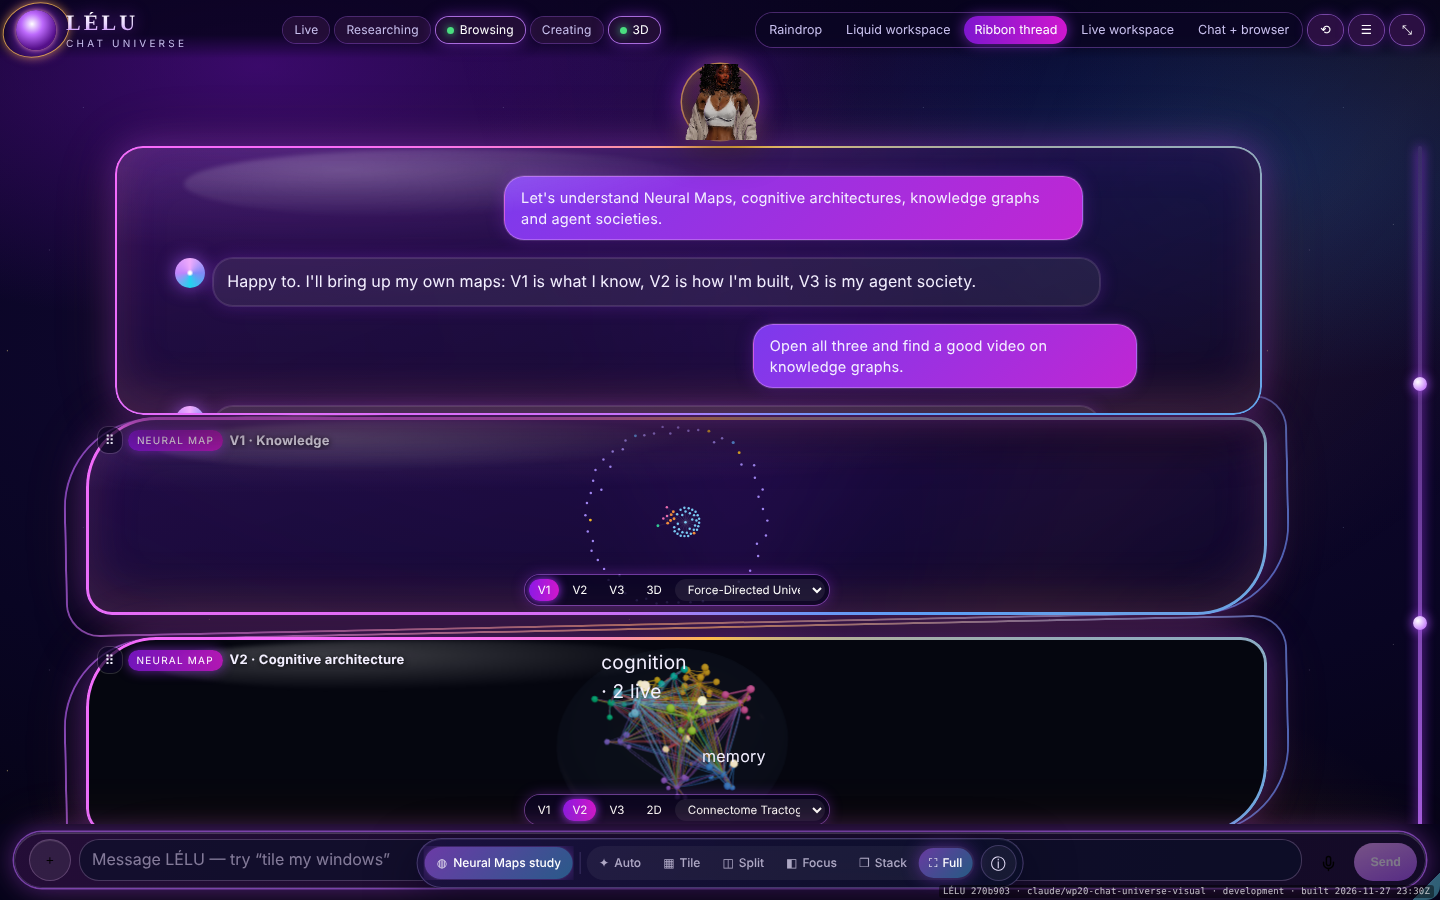
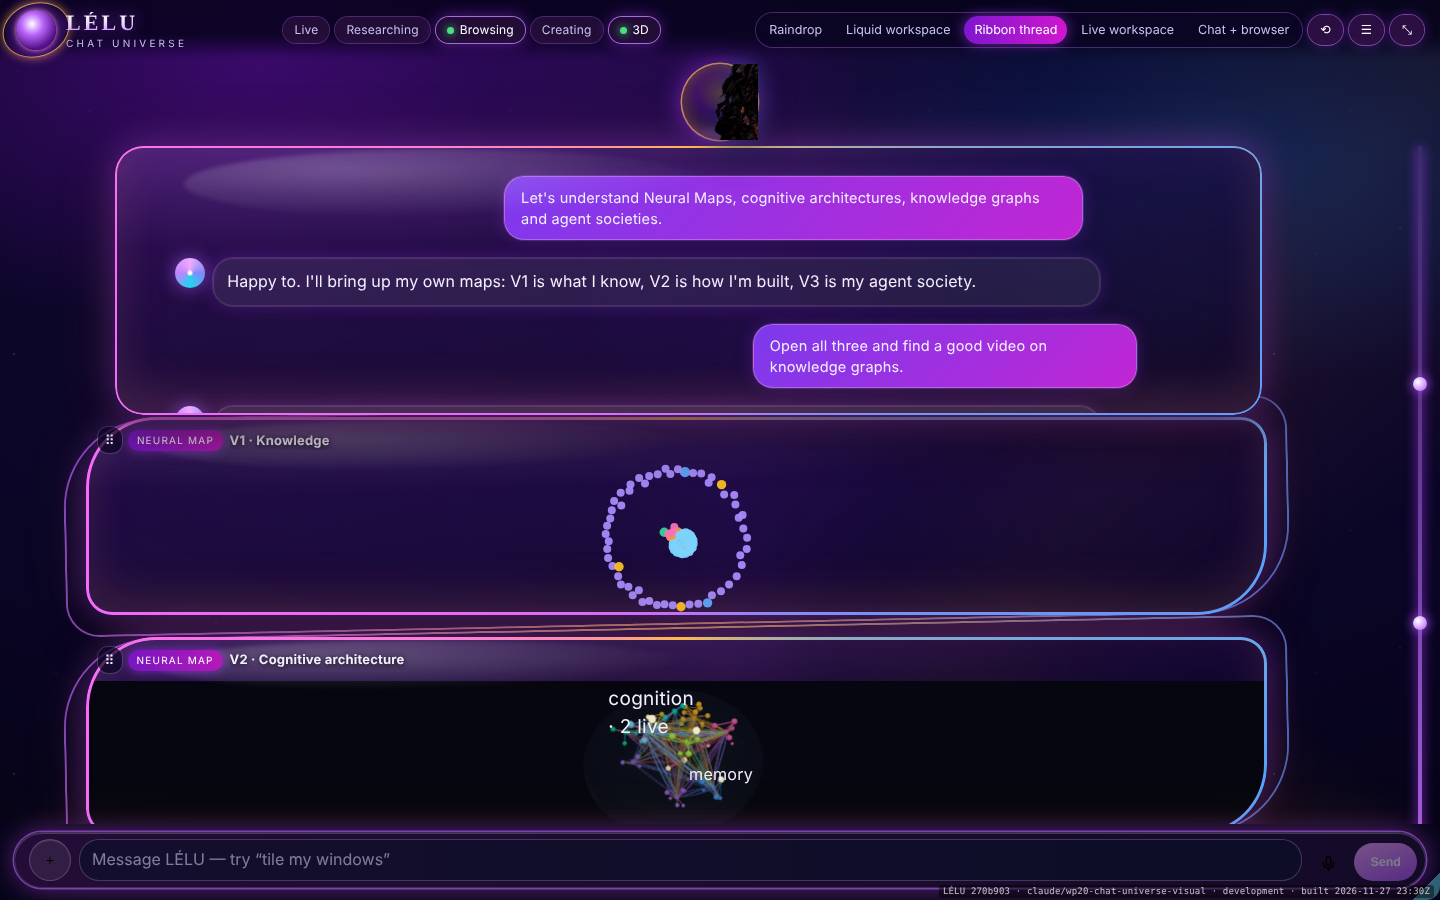
WP20: readable maps at any size, uncluttered video, composer free of the workspace bar
- 2D map labels and nodes keep their on-screen size (about 12 px)
  whatever the map's scale or the pane's size. V3's agents now read
  clearly in a side pane.
- Workspace side panes are at least 200 px tall; the centrepiece grows
  to match.
- Videos keep YouTube's own title; only the grip and actions float
  over them. Map content starts below the floating header.
- The window's workspace bar is hidden while the Thread is immersive,
  so it no longer covers the composer.

Claude-Session: https://claude.ai/code/session_017r5V6N97c4ksPFc1eZj1j6

Changed region(s): [[0.0625, 0.4978, 0.9062, 0.9956], [0.4688, 0.0622, 0.5312, 0.1867]]

diff --git a/src/app/scene/genesis/chat/thread/ThreadMap.tsx b/src/app/scene/genesis/chat/thread/ThreadMap.tsx
@@ -103,13 +103,24 @@ function Map2D({ graph, layoutId, colour, highlight, selected, onSelect }: { gra
   }, [placed]);
   const [view, setView] = useState({ x: 0, y: 0, k: 1 });
   const drag = useRef<{ x: number; y: number; vx: number; vy: number } | null>(null);
+  // Labels and nodes keep an on-screen size whatever the map's scale or the pane's size.
+  const svgRef = useRef<SVGSVGElement | null>(null);
+  const [px, setPx] = useState(400);
+  useEffect(() => {
+    if (!svgRef.current) return;
+    const ro = new ResizeObserver(([e]) => setPx(Math.max(120, Math.min(e.contentRect.width, e.contentRect.height))));
+    ro.observe(svgRef.current);
+    return () => ro.disconnect();
+  }, []);
+  const unit = fit.s / view.k / px; // viewBox units per screen pixel
   const focus = selected ?? null;
   const near = new Set(focus ? graph.edges.flatMap((e) => (e.from === focus ? [e.to] : e.to === focus ? [e.from] : [])) : []);
   return (
     <svg
+      ref={svgRef}
       className="tm-svg"
       viewBox={`${fit.x - view.x} ${fit.y - view.y} ${fit.s / view.k} ${fit.s / view.k}`}
-      style={{ ["--ls" as string]: `${Math.max(12, fit.s / 34)}px` }}
+      style={{ ["--ls" as string]: `${unit * 12}px` }}
       onWheel={(e) => setView((v) => ({ ...v, k: Math.min(6, Math.max(0.5, v.k * (e.deltaY < 0 ? 1.15 : 0.87))) }))}
       onPointerDown={(e) => {
         if ((e.target as Element).closest("[data-tm-node]")) return;
@@ -128,14 +139,14 @@ function Map2D({ graph, layoutId, colour, highlight, selected, onSelect }: { gra
         const b = placed.positions[e.to];
         if (!a || !b) return null;
         const lit = focus && (e.from === focus || e.to === focus);
-        return <line key={e.id} x1={a.x} y1={a.y} x2={b.x} y2={b.y} stroke={lit ? "#fde68a" : "#94a3b8"} strokeOpacity={lit ? 0.9 : 0.3} strokeWidth={fit.s / (lit ? 300 : 600)} />;
+        return <line key={e.id} x1={a.x} y1={a.y} x2={b.x} y2={b.y} stroke={lit ? "#fde68a" : "#94a3b8"} strokeOpacity={lit ? 0.9 : 0.3} strokeWidth={unit * (lit ? 2 : 1)} />;
       })}
       {graph.nodes.map((n) => {
         const p = placed.positions[n.id];
         if (!p) return null;
         const hl = highlight.has(n.id);
         const on = n.id === focus;
-        const r = (fit.s / 160) * (1 + Math.min(1.5, Math.log2(1 + (n.weight ?? 0)) / 6));
+        const r = unit * (4 + Math.min(6, Math.log2(1 + (n.weight ?? 0)) * 0.7));
         return (
           <g key={n.id} data-tm-node={n.id} data-highlighted={hl ? "true" : "false"} onClick={() => onSelect(on ? null : n.id)} style={{ cursor: "pointer" }}>
             {hl ? <circle cx={p.x} cy={p.y} r={r * 1.9} fill="none" stroke="#fbbf24" strokeWidth={r / 3} className="tm-pulse" /> : null}

diff --git a/src/app/scene/genesis/chat/thread/thread.css b/src/app/scene/genesis/chat/thread/thread.css
@@ -298,3 +298,22 @@
   .ts::before, .lq::before, .rd-sky i, .rd-ripple, .rd-drop .rd-shape, .ts-trails path { animation: none !important; }
   .rd-drop { transition: none; }
 }
+
+/* ---------------------------------------------------- WP20 refinements */
+/* The workspace bar belongs to the window layout; the immersive Thread has its own controls. */
+html:has(.lst-root[data-stage="thread"][data-immersive="true"]) [data-lelu-workspace-bar] { display: none !important; }
+/* A video carries its own title (YouTube's player): keep only the grip and actions over it. */
+.to[data-kind="youtube"] .to-kind, .to[data-kind="youtube"] .to-title { display: none; }
+.to[data-kind="youtube"] .to-head { justify-content: space-between; top: auto; bottom: 40px; }
+.to[data-kind="youtube"] .to-actions { margin-left: auto; }
+/* Map content starts below the floating header, so labels never sit under it. */
+.to[data-kind="neural-map"] .tm-body { margin-top: 44px; }
+.to[data-kind="neural-map"] .tm-bar { bottom: 8px; }
+/* Narrow panes: the title gives way first. */
+@container (max-width: 300px) { .to-title { display: none; } }
+.to { container-type: size; }
+
+/* Short panes: the map's controls appear on hover / focus only. */
+@container (max-height: 260px) { .tm-bar { opacity: 0; transition: opacity .2s; } }
+.to:hover .tm-bar, .to:focus-within .tm-bar { opacity: 1; }
+.tm-label { stroke-width: calc(var(--ls) * .35); }

diff --git a/src/core/thread/ThreadVariants.ts b/src/core/thread/ThreadVariants.ts
@@ -226,12 +226,13 @@ export function layoutThread(base: BaseLayout, width: number, height: number, id
         objects[order[0]] = { x: left, y: 70, w: areaW, h: Math.min(areaW * 0.62, height - 170) };
         return { base, chat, avatar, activity: null, objects, tabs: [], height, compact };
       }
-      const mainW = areaW * 0.62;
-      const mainH = Math.min(mainW * 0.66, height - 190);
+      const mainW = areaW * 0.6;
+      const side = order.slice(1, 3);
+      // Side maps stay readable (≥ 200 px tall); the centrepiece grows to match them.
+      const mainH = Math.max(Math.min(mainW * 0.72, height - 190), side.length * 200 + (side.length - 1) * 16);
       objects[order[0]] = { x: left, y: 70, w: mainW, h: mainH };
       const sideX = left + mainW + 18;
       const sideW = areaW - mainW - 18;
-      const side = order.slice(1, 3);
       const sideH = (mainH - (side.length - 1) * 16) / side.length;
       side.forEach((id, i) => (objects[id] = { x: sideX, y: 70 + i * (sideH + 16), w: sideW, h: sideH }));
       // Further objects in a row beneath the centrepiece.
